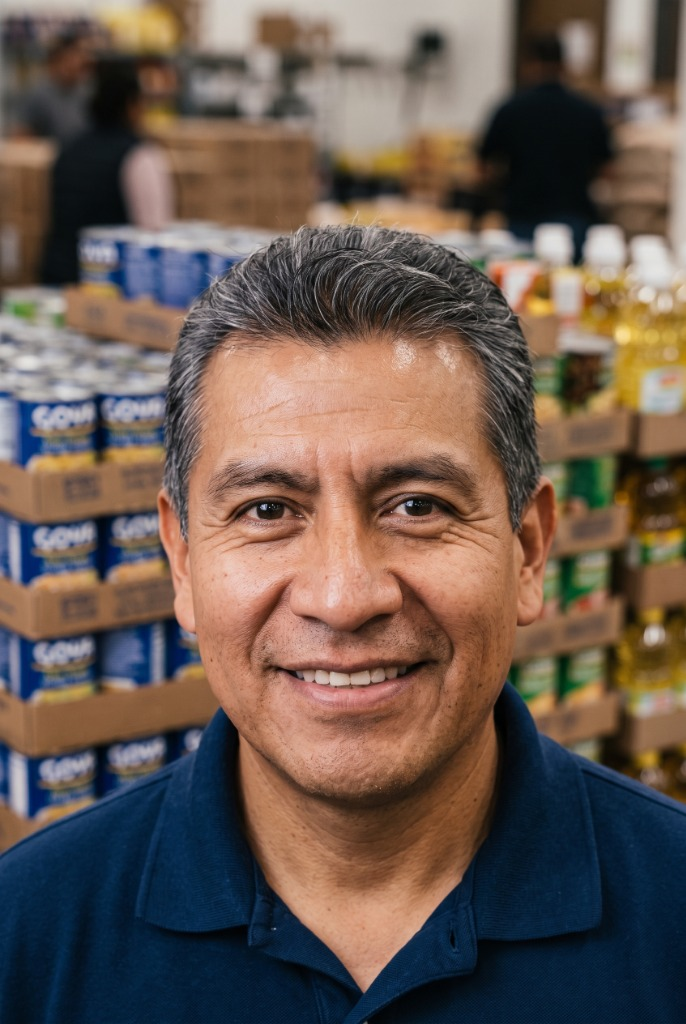
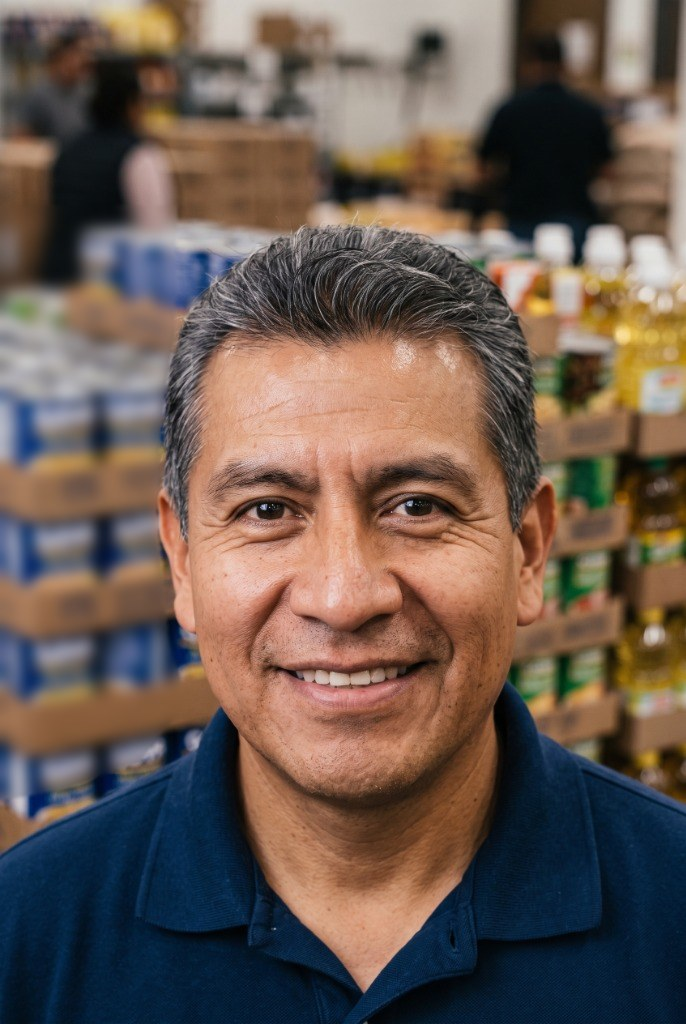
Quitar marcas y textos inventados de las fotos del EC1836
Difumina, solo dentro de cada zona, lo que se lee al ampliar: las pantallas
de laptop con un logotipo que imita a «Educación» y «SYSTEMA DE CONTROL DE
INVENTARIO», las hojas con sellos, el pizarrón con «Warehouse», la caja
«Flex-O-Flex», un letrero de anaquel y las latas GOYA detrás de Raúl.
Retira del sitio las dos fotos con GOYA en medio encuadre (la bodega de
«Conoce El Surtido» y la visión general del Elemento 1), porque difuminarlas
borraría media escena. Sube el parámetro ?v= de las fotos cambiadas.

diff --git a/estandar-d/index.html b/estandar-d/index.html
@@ -111,7 +111,7 @@
         </summary>
         <div class="accordion__body">
           <figure class="img-caso">
-            <img src="../img/escenas/presentacion-estandar-d-v2.jpg?v=2" alt="Desarrolladora en bodega de abarrotes con laptop revisando la solución tecnológica de modernización digital con IA" class="img-escena" loading="lazy" />
+            <img src="../img/escenas/presentacion-estandar-d-v2.jpg?v=3" alt="Desarrolladora en bodega de abarrotes con laptop revisando la solución tecnológica de modernización digital con IA" class="img-escena" loading="lazy" />
           </figure>
 
           <p>Este curso está dedicado en exclusiva al Estándar de Competencia D, el <strong>EC1836 · Creación de soluciones tecnológicas con Inteligencia Artificial en la modernización digital de la MiPyME</strong>, que el CONOCER publicó en el Diario Oficial de la Federación el 28 de octubre de 2026.</p>
@@ -178,7 +178,7 @@
         </summary>
         <div class="accordion__body">
           <figure class="img-caso">
-            <img src="../img/escenas/consultor-estandar-d-v2.jpg?v=2" alt="Desarrolladora experta trabajando en soluciones de modernización digital con IA" class="img-escena" loading="lazy" />
+            <img src="../img/escenas/consultor-estandar-d-v2.jpg?v=3" alt="Desarrolladora experta trabajando en soluciones de modernización digital con IA" class="img-escena" loading="lazy" />
           </figure>
 
           <h3>Qué función contempla el EC1836</h3>
@@ -436,12 +436,10 @@
             </div>
           </aside>
 
-          <img src="../img/escenas/bodega-distribuidora.jpg?v=2" alt="Interior de la bodega de Distribuidora El Surtido" class="img-escena img-escena--full" loading="lazy" />
-
           <h3>Las personas del caso</h3>
 
           <aside class="callout callout--example callout--with-photo" role="note">
-            <img src="../img/personajes/raul-gerente.jpg?v=2" alt="Raúl, gerente de la Distribuidora El Surtido" class="img-personaje" loading="lazy" />
+            <img src="../img/personajes/raul-gerente.jpg?v=3" alt="Raúl, gerente de la Distribuidora El Surtido" class="img-personaje" loading="lazy" />
             <div>
               <span class="callout__label">Raúl · gerente de Distribuidora El Surtido</span>
               <div class="callout__body">

diff --git a/estandar-d/elemento-1.html b/estandar-d/elemento-1.html
@@ -112,11 +112,6 @@
           <span class="accordion__meta">Primer paso · diagnóstico y propuesta · 3 min</span>
         </summary>
         <div class="accordion__body">
-          <figure class="img-caso">
-            <img src="../img/escenas/estandar-d-e1-vision-general-v2.jpg?v=2" alt="Ana Liz en la bodega de Distribuidora El Surtido realizando el levantamiento de diagnóstico con el personal" class="img-escena" loading="lazy" />
-            <figcaption>Diagnóstico de oportunidades: levantamiento en sitio de procesos y necesidades operativas de la MiPyME.</figcaption>
-          </figure>
-
           <p>En este primer tema se aborda el primer paso de la Creación de soluciones tecnológicas con Inteligencia Artificial en la modernización digital de la MiPyME, y que corresponde con el primer elemento del EC1836, el E5829 «Diagnosticar oportunidades de modernización digital en la MiPyME».</p>
 
           <aside class="callout callout--important" role="note">
@@ -138,7 +133,7 @@
         </summary>
         <div class="accordion__body">
           <figure class="img-caso">
-            <img src="../img/escenas/estandar-d-e1-como-evaluan.jpg" alt="Ana Liz revisando diagrama de procesos y rutas con el personal de Distribuidora El Surtido" class="img-escena" loading="lazy" />
+            <img src="../img/escenas/estandar-d-e1-como-evaluan.jpg?v=3" alt="Ana Liz revisando diagrama de procesos y rutas con el personal de Distribuidora El Surtido" class="img-escena" loading="lazy" />
             <figcaption>Evaluación de evidencias: revisión de documentación, procesos y requerimientos del estándar.</figcaption>
           </figure>
 

diff --git a/estandar-d/elemento-4.html b/estandar-d/elemento-4.html
@@ -112,7 +112,7 @@
         </summary>
         <div class="accordion__body">
           <figure class="img-caso">
-            <img src="../img/escenas/estandar-d-e4-vision-general.jpg" alt="Ana Liz y Raúl revisando la retroalimentación y rendimiento de la solución en la oficina de Distribuidora El Surtido" class="img-escena" loading="lazy" />
+            <img src="../img/escenas/estandar-d-e4-vision-general.jpg?v=3" alt="Ana Liz y Raúl revisando la retroalimentación y rendimiento de la solución en la oficina de Distribuidora El Surtido" class="img-escena" loading="lazy" />
             <figcaption>Optimización de la solución: medición de métricas, análisis de retroalimentación de usuarios y plan de mejora continua.</figcaption>
           </figure>
 
@@ -139,7 +139,7 @@
         </summary>
         <div class="accordion__body">
           <figure class="img-caso">
-            <img src="../img/escenas/estandar-d-e4-como-evaluan.jpg" alt="Ana Liz y Raúl cerrando la evaluación del proyecto en Distribuidora El Surtido" class="img-escena" loading="lazy" />
+            <img src="../img/escenas/estandar-d-e4-como-evaluan.jpg?v=3" alt="Ana Liz y Raúl cerrando la evaluación del proyecto en Distribuidora El Surtido" class="img-escena" loading="lazy" />
             <figcaption>Cierre y evaluación del Elemento 4: entrega de reportes finales y validación de evidencias.</figcaption>
           </figure>
 

diff --git a/estandar-d/elemento-2.html b/estandar-d/elemento-2.html
@@ -113,7 +113,7 @@
         </summary>
         <div class="accordion__body">
           <figure class="img-caso">
-            <img src="../img/escenas/estandar-d-e2-vision-general.jpg" alt="Una consultora trabaja en el desarrollo de la solución tecnológica en su computadora" class="img-escena" loading="lazy" />
+            <img src="../img/escenas/estandar-d-e2-vision-general.jpg?v=3" alt="Una consultora trabaja en el desarrollo de la solución tecnológica en su computadora" class="img-escena" loading="lazy" />
             <figcaption>Construcción de la solución: desarrollo del entorno, código, integración de modelos de IA y documentación técnica.</figcaption>
           </figure>
 
@@ -163,7 +163,7 @@
         </summary>
         <div class="accordion__body">
           <figure class="img-caso">
-            <img src="../img/escenas/estandar-d-e2-como-evaluan.jpg" alt="Una consultora revisa los criterios de evaluación y las evidencias del Elemento 2" class="img-escena" loading="lazy" />
+            <img src="../img/escenas/estandar-d-e2-como-evaluan.jpg?v=3" alt="Una consultora revisa los criterios de evaluación y las evidencias del Elemento 2" class="img-escena" loading="lazy" />
             <figcaption>Evaluación de evidencias: verificación de productos técnicos, conocimientos y actitudes para la fase de construcción.</figcaption>
           </figure>
 
